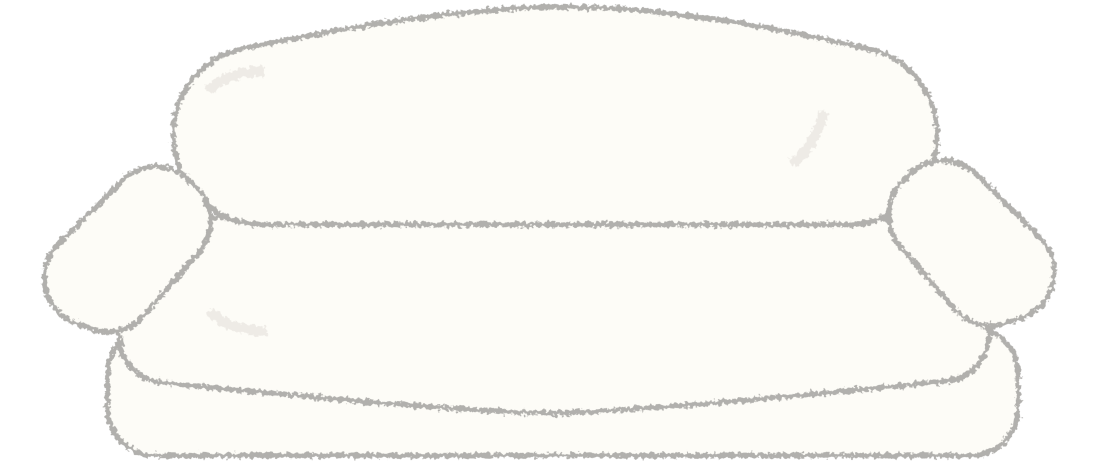
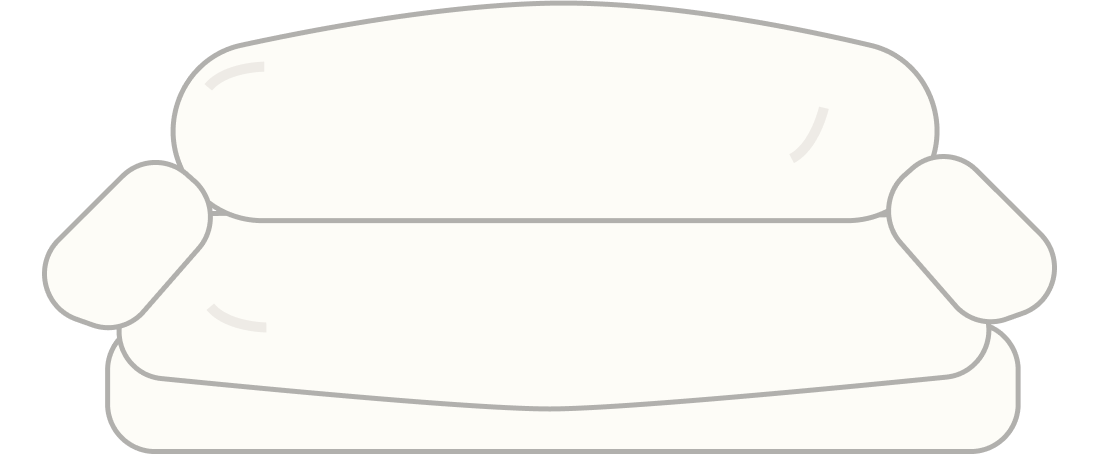
changing all images to texture-less version

diff --git a/src/app/frames/office/office.component.html b/src/app/frames/office/office.component.html
@@ -1,9 +1,10 @@
 <div class="frame-wrapper">
     <div class="frame-container">
         <img src="../../../assets/images/office/clock shadow.png" alt="Clock shadow" class="clock-shadow" />
-        <img src="../../../assets/images/office/clock.png" alt="Clock" class="clock" />
+        <img src="../../../assets/images/office/clock/clock-base.png" alt="Clock" class="clock" />
         <img src="../../../assets/images/office/desk.png" alt="Desk" class="desk" />
         <img src="../../../assets/images/office/computer.png" alt="Computer" class="computer" />
+        <img src="../../../assets/images/office/screen.png" alt="Screen" class="screen" />
         <img src="../../../assets/images/office/keyboard.png" alt="Keyboard" class="keyboard" />
         <img src="../../../assets/images/office/leanne.png" alt="Leanne" class="leanne" />
         <img src="../../../assets/images/office/chair.png" alt="Chair" class="chair" />

diff --git a/src/app/frames/living-room/living-room.component.css b/src/app/frames/living-room/living-room.component.css
@@ -43,7 +43,7 @@ img {
 }
 
 .window {
-    width: 22.5%;
+    width: 20%;
     top: -5%;
 }
 
@@ -54,9 +54,9 @@ img {
 }
 
 .tree {
-    width: 30%;
-    top: 42.5%;
-    left: 4%;
+    width: 25%;
+    top: 40%;
+    left: 4.8%;
 }
 
 .lighting {

diff --git a/src/app/frames/office/office.component.css b/src/app/frames/office/office.component.css
@@ -38,6 +38,12 @@ img {
     left: 15%;
 }
 
+.screen {
+    width: 48%;
+    top: 41.5%;
+    left: 16%;
+}
+
 .desk {
     top: 40%;
     left: -25%;
